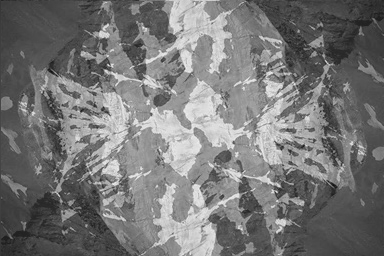
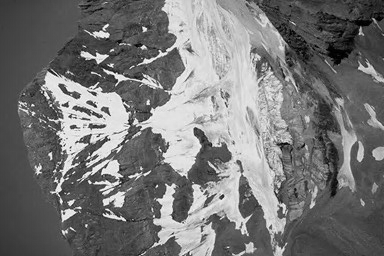
fix imaginary calculation err and make IDFT work!

diff --git a/03_Frequency_Domain/src/fourier_trans.py b/03_Frequency_Domain/src/fourier_trans.py
@@ -9,7 +9,7 @@ import os.path
 
 def dft2d(input_img, flags):
     M, N = input_img.shape
-    output_img = np.zeros((M, N))
+    output_img = np.zeros((M, N)) + 0.j
 
     # Discrete Fourier Transform implement in vector form of numpy
     # for u in xrange(M):
@@ -105,10 +105,11 @@ def stand_img(img):
 
 
 def main():
-    input_img = np.array(Image.open('images/72.png').convert('L'))
+    input_img = np.array(Image.open('images/72.png').convert('L'), dtype=np.float64)
 
     # dft
     shifted_img = shift_img(input_img)
+    # npy file is used to accelerate the next try.
     dft_path = 'dft.npy'
     if os.path.isfile(dft_path):
         output_img = np.load(dft_path)
@@ -118,7 +119,7 @@ def main():
         end_t = time.time()
         print (end_t - start_t)
         np.save(dft_path, output_img)
-    dft_img = Image.fromarray(stand_img(output_img), 'L')
+    dft_img = Image.fromarray(stand_img(output_img.real), 'L')
     img_title = "images/dft_72.png"
     dft_img.save(img_title)
     print "Successfully saved ", img_title
@@ -133,8 +134,8 @@ def main():
         end_t = time.time()
         print (end_t - start_t)
         np.save(idft_path, output_img_2)
-    # shift back
-    output_img_2 = shift_img(output_img_2)
+    # get the real part and shift back
+    output_img_2 = shift_img(output_img_2.real)
     idft_img = Image.fromarray(output_img_2.astype(np.uint8), "L")
     img_title = "images/idft_72.png"
     idft_img.save(img_title)

diff --git a/03_Frequency_Domain/report.md b/03_Frequency_Domain/report.md
@@ -1,7 +1,5 @@
 # HW3: Filtering in the Frequency Domain
 
-
-
 ## 2 Programming Tasks
 
 ### 2.2 Fourier Transform
@@ -10,3 +8,12 @@
 
 ![](src/images/dft_72.png)<br>
 I did try all of my best to improve the Fourier Transformation, but it still take times, the Spectrum above takes about 100s in my machine to generate.
+
+* **Perform IDFT**
+
+![](src/images/idft_72.png)<br>
+After fixing the imaginary calculation error, the final idft image is near the same as input image
+
+* **Detailedly discuss how you implement DFT / IDFT**
+
+Just follow the formula, but remmeber to try using vector operation and multiprocessing operation, because the calculation really take times for every point would use all the pixel of the input image as input.
